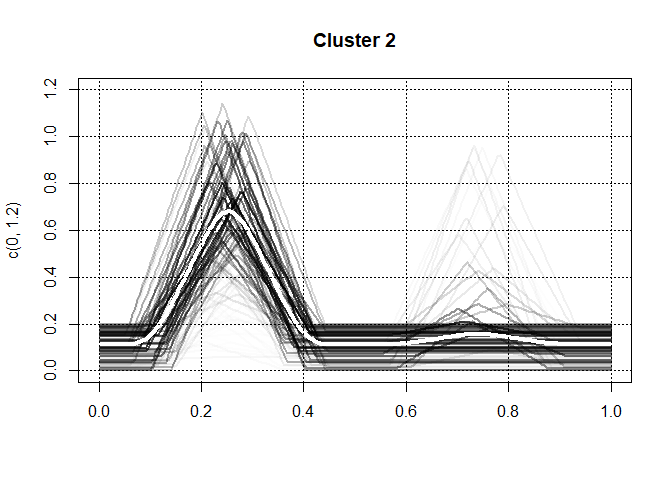
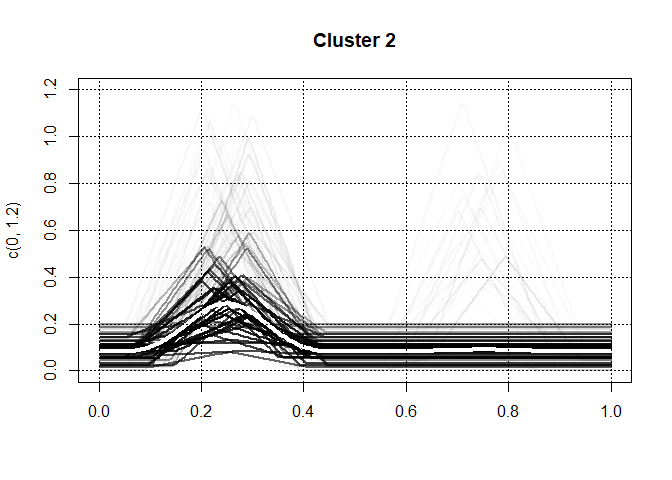
BugFix: GSI were computed from the dynamic variable not from membership functions

Changed region(s): [[0.125, 0.2188, 0.9062, 0.7812]]

diff --git a/clusterBasedGSA_on_Toycurve.md b/clusterBasedGSA_on_Toycurve.md
@@ -1,10 +1,7 @@
 Application of Cluster-Based GSA method to the ToyCurves model
 ================
 S. Roux (INRAE, UMR MISTEA) & S. Buis (INRAE, UMR EMMAH)
-2020-08-18
-
-**Régler conv et/ou maxit dans FKM pour réduire le temps de calcul**
-**Valider les graphes**
+2020-08-19
 
 # Introduction
 
@@ -16,7 +13,8 @@ Main parameters can be changed using the Rstudio “Knit with parameters
 …” menu Bar:
 
   - n: the sample size for the Sensitivity Analysis Design-Of-Experiment
-    (decreasing it may dramatically lower the computation time)
+    (decreasing it may dramatically lower the computation time but may
+    increase uncertainty of sensitivity indices)
   - X6: ToyCurves parameter that controls the magnitude of the shift of
     the two triangles (0.05 corresponds to setting 1 in Roux, Buis et
     al., and 0.08 to setting 2)
@@ -55,7 +53,18 @@ respectively at t=0.15 and t=0.75 with perturbations controlled by
 parameters (X\_4,X\_6) for Triangle 1 and (X\_5,X\_6) for Triangle 2.
 Parameter X\_3 controls the height of the global shift.
 
-<img src="toycurve_fig.png" title="Figure 1. The  ToyCurves  model  (A)  and  some  samples  for  two  parameter  settings;  Setting  1:small t-shift (B), Setting 2:  large t-shift (C)." alt="Figure 1. The  ToyCurves  model  (A)  and  some  samples  for  two  parameter  settings;  Setting  1:small t-shift (B), Setting 2:  large t-shift (C)." style="display: block; margin: auto;" />
+<div class="figure" style="text-align: center">
+
+<img src="toycurve_fig.png" alt="Figure 1. The  ToyCurves  model  (A)  and  some  samples  for  two  parameter  settings;  Setting  1:small t-shift (B), Setting 2:  large t-shift (C)." width="2206" />
+
+<p class="caption">
+
+Figure 1. The ToyCurves model (A) and some samples for two parameter
+settings; Setting 1:small t-shift (B), Setting 2: large t-shift (C).
+
+</p>
+
+</div>
 
 ``` r
 # Triangle function
@@ -178,10 +187,10 @@ for (cl in 1:nbClust)
 ``` r
 Clust_SI <- vector("list",nbClust)
 for (cl in 1:nbClust) {
-  Clust_SI <- tell(gsa, y=u[,cl])
-  plot_indices(Si1=Clust_SI$S[,1], ST=Clust_SI$T[,1], 
-               lowCI_Si1=Clust_SI$S[i,4], upCI_Si1=Clust_SI$S[i,5], 
-               lowCI_ST=Clust_SI$T[i,4], upCI_ST=Clust_SI$T[i,5], 
+  Clust_SI[[cl]] <- tell(gsa, y=u[,cl])
+  plot_indices(Si1=Clust_SI[[cl]]$S[,1], ST=Clust_SI[[cl]]$T[,1], 
+               lowCI_Si1=Clust_SI[[cl]]$S[,4], upCI_Si1=Clust_SI[[cl]]$S[,5], 
+               lowCI_ST=Clust_SI[[cl]]$T[,4], upCI_ST=Clust_SI[[cl]]$T[,5], 
                graph_title=paste0("Cluster",cl))
 }
 ```
@@ -193,13 +202,12 @@ for (cl in 1:nbClust) {
 ``` r
 comb <- combn(nbClust,2) # computes the different combinations of 2 clusters among nbClust
 nbComb <- ncol(comb)
-dClust_SI <- vector("list",nbComb)
 
 for (icomb in 1:nbComb) {
   dClust_SI <- tell(gsa, y=u[,comb[1,icomb]]-u[,comb[2,icomb]])
   plot_indices(Si1=dClust_SI$S[,1], ST=dClust_SI$T[,1], 
-               lowCI_Si1=dClust_SI$S[i,4], upCI_Si1=dClust_SI$S[i,5], 
-               lowCI_ST=dClust_SI$T[i,4], upCI_ST=dClust_SI$T[i,5], 
+               lowCI_Si1=dClust_SI$S[,4], upCI_Si1=dClust_SI$S[,5], 
+               lowCI_ST=dClust_SI$T[,4], upCI_ST=dClust_SI$T[,5], 
                graph_title=paste0("Direction ",comb[1,icomb],"-",comb[2,icomb]))
 }
 ```
@@ -210,10 +218,10 @@ for (icomb in 1:nbComb) {
 
 ``` r
 compute_GSI <- function(V, Si1, ST, paramNames) {
-  # Function that computes GSI indices from a set of Sobol' indices computed for each time-step of a dynamic output
-  # V: vector of variances (one value per time-step)
-  # Si1: data.frame containing the Sobol' main indices per parameter (row) and time-step (column)
-  # ST: data.frame containing the Sobol' total indices per parameter (row) and time-step (column)
+  # Function that computes GSI indices from a set of Sobol' indices computed for multiple variables (e.g. several time-steps of a dynamic output, membership functions for different clusters, ...)
+  # V: vector of variances (one value per variable)
+  # Si1: data.frame containing the Sobol' main indices per parameter (row) and variable (column)
+  # ST: data.frame containing the Sobol' total indices per parameter (row) and variable (column)
 
   clust_GSI <- list(Si1=setNames(sapply(1:nbParam,function(x) sum(V * Si1[x,]) / sum(V)), paramNames),
                     ST=setNames(sapply(1:nbParam,function(x) sum(V * ST[x,]) / sum(V)), paramNames))
@@ -221,17 +229,9 @@ compute_GSI <- function(V, Si1, ST, paramNames) {
 }
 
 # Compute Clust-GSI
-dyn_V <- rep(NA,np)  # V: vector of variances (one value per time-step)
-dyn_Si1 <- data.frame(matrix(nrow=nbParam,ncol=np)) # Sobol' main indices per parameter (row) and time-step (column)
-dyn_T <- data.frame(matrix(nrow=nbParam,ncol=np))   # Sobol' total indices per parameter (row) and time-step (column)
-for (i in 1:np) {
-  gsa$nboot=0 # bootstrap is not necessary at this stage
-  res_tmp <- tell(gsa, y=curves[,i])
-  dyn_V[i]=res_tmp$V[1,1]
-  dyn_Si1[,i] = res_tmp$S[,1]
-  dyn_T[,i] = res_tmp$T[,1]
-}
-clust_GSI <- compute_GSI(dyn_V, dyn_Si1, dyn_T, paramNames)
+clust_GSI <- compute_GSI(sapply(Clust_SI, function(x) x$V[1,1]), 
+                         sapply(Clust_SI, function(x) x$S[,1]), 
+                         sapply(Clust_SI, function(x) x$T[,1]), paramNames)
 
 # Compute confidence intervals on Clust-GSI
 nboot=100
@@ -241,16 +241,16 @@ for (iboot in 1:nboot)
   bt_idx=sample(n,size=n,replace=TRUE) # resample in X1 and X2 matrices
   
   gsa_boot = soboljansen(model = NULL, X1= X1[bt_idx,], X2 = X2[bt_idx,], nboot=0)
-  idx_in_curves = match(data.frame(t(gsa_boot$X)), data.frame(t(gsa$X))) # identify the lines of the bootstrapped DoE, gsa_boot$X, in the original DoE, gsa$X, to reuse the simulated curves
+  idx_in_orig_DoE = match(data.frame(t(gsa_boot$X)), data.frame(t(gsa$X))) # identify the lines of the bootstrapped DoE, gsa_boot$X, in the original DoE, gsa$X, to reuse the simulated curves
   
-  for (i in 1:np)
+  Clust_SI_boot <- vector("list",nbClust)
+  for (cl in 1:nbClust)
   {
-    res_tmp = tell(gsa_boot, y=curves[idx_in_curves,i]) 
-    dyn_V[i]=res_tmp$V[1,1]
-    dyn_Si1[,i] = res_tmp$S[,1]
-    dyn_T[,i] = res_tmp$T[,1]
+    Clust_SI_boot[[cl]] <- tell(gsa, y=u[idx_in_orig_DoE,cl])
   }
-  clust_GSI_boot[[iboot]] <- compute_GSI(dyn_V, dyn_Si1, dyn_T, paramNames)
+  clust_GSI_boot[[iboot]] <- compute_GSI(sapply(Clust_SI_boot, function(x) x$V[1,1]), 
+                                         sapply(Clust_SI_boot, function(x) x$S[,1]), 
+                                         sapply(Clust_SI_boot, function(x) x$T[,1]), paramNames)
   
 }
 
